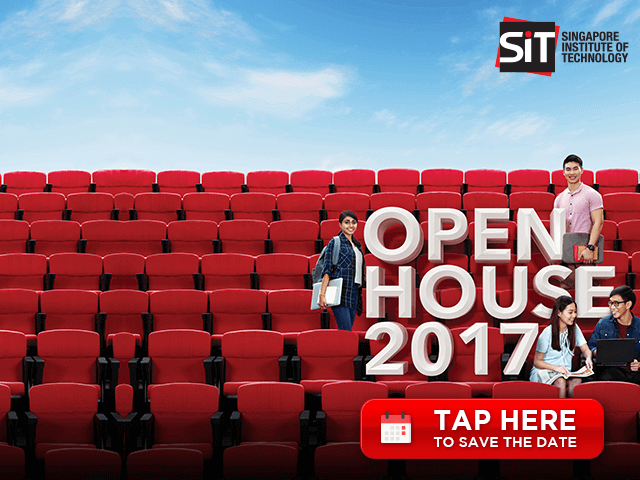
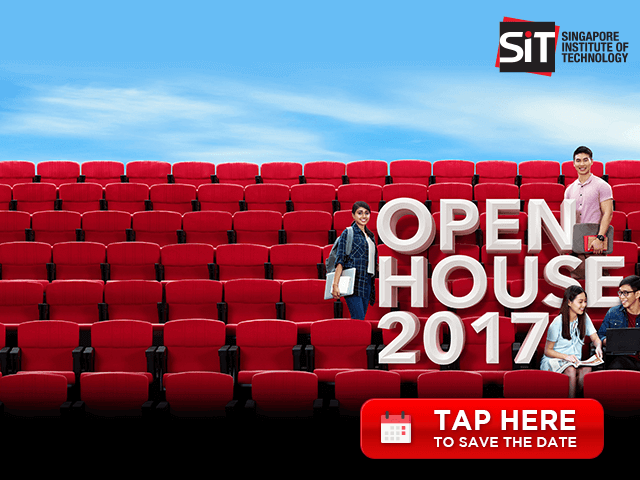
updates

diff --git a/320x480/js/main.js b/320x480/js/main.js
@@ -274,7 +274,8 @@ SitAd.prototype.render = function() {
 SitAd.prototype.style = function() {
   var css = 'body {margin:0;padding:0;}  #container { position: relative; width: 320px; height: 480px; overflow: hidden; margin: 0; padding: 0; }'
   css += '#bg {position:absolute;transition:left 1s;-webkit-transition: left 1s;}'
-  css += '#one {position:absolute;left:15px;top:80px;transition:opacity 1s;-webkit-transition: opacity 1s;opacity:1} #two{position:absolute;left:15px;top:80px;transition:opacity 1s;-webkit-transition: opacity 1s;opacity:0}'
+  css += '#one {position:absolute;left:15px;top:70px;transition:opacity 1s;-webkit-transition: opacity 1s;opacity:1}'
+  css += '#two{position:absolute;left:15px;top:80px;transition:opacity 1s;-webkit-transition: opacity 1s;opacity:0}'
 
   head = document.head || document.getElementsByTagName('head')[0],
   style = document.createElement('style');

diff --git a/300x250/js/main.js b/300x250/js/main.js
@@ -313,7 +313,7 @@ function getMobileOperatingSystem() {
 SitAd.prototype.events = function() {
   var self = this
   setTimeout(function() {
-      document.getElementById('bg').style.left = '-200px'
+      document.getElementById('bg').style.left = '-300px'
       document.getElementById('one').style.opacity = '0'
       document.getElementById('two').style.display = 'block'
       document.getElementById('two').style.opacity = '1'
